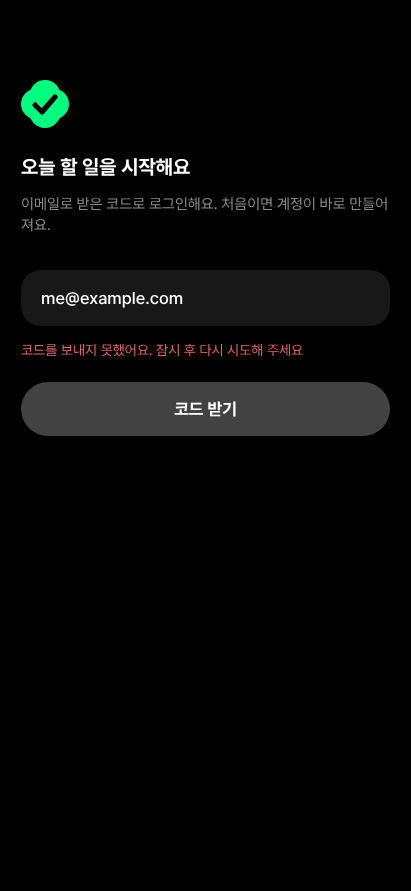
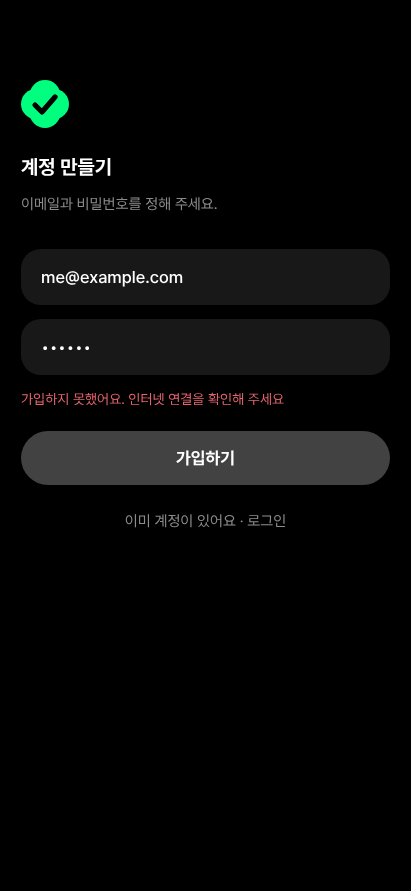
auth: switch sign-in to email + password
Supabase's built-in mailer no longer allows editing the Magic Link
template, so the email cannot carry a code without custom SMTP.

Claude-Session: https://claude.ai/code/session_01XcUwxEMgmw5eDd36iyjW7A

diff --git a/app/src/features/auth/LoginScreen.tsx b/app/src/features/auth/LoginScreen.tsx
@@ -1,21 +1,27 @@
 import { useState } from "react";
-import { KeyboardAvoidingView, Platform, TextInput, View } from "react-native";
+import { KeyboardAvoidingView, Platform, Pressable, TextInput, View } from "react-native";
 import { useSafeAreaInsets } from "react-native-safe-area-context";
 import { AppText, Button, Clover } from "../../components";
 import { supabase } from "../../lib/supabase";
 import { fontFamily, tokens, useTheme } from "../../theme";
 
-/** S01: sign in with a one-time code sent by email. No passwords to remember or leak. */
+const MIN_PASSWORD = 6; // Supabase Auth default minimum
+
+/**
+ * S01: email + password. Chosen over email codes because Supabase's built-in mailer no longer lets the
+ * template show a code without your own SMTP server (see replica/backend.md).
+ */
 export function LoginScreen() {
   const { c } = useTheme();
   const insets = useSafeAreaInsets();
+  const [mode, setMode] = useState<"signIn" | "signUp">("signIn");
   const [email, setEmail] = useState("");
-  const [code, setCode] = useState("");
-  const [step, setStep] = useState<"email" | "code">("email");
+  const [password, setPassword] = useState("");
   const [busy, setBusy] = useState(false);
   const [error, setError] = useState<string>();
+  const [info, setInfo] = useState<string>();
 
-  const field = (props: React.ComponentProps<typeof TextInput>) => (
+  const input = (props: React.ComponentProps<typeof TextInput>) => (
     <TextInput
       {...props}
       placeholderTextColor={c.textPlaceholder}
@@ -24,39 +30,56 @@ export function LoginScreen() {
     />
   );
 
-  const send = async () => {
+  const submit = async () => {
     if (!supabase) return;
-    if (!/^[^\s@]+@[^\s@]+\.[^\s@]+$/.test(email.trim())) return setError("이메일 주소를 확인해 주세요");
-    setBusy(true); setError(undefined);
-    const { error } = await supabase.auth.signInWithOtp({ email: email.trim(), options: { shouldCreateUser: true } });
+    const e = email.trim();
+    if (!/^[^\s@]+@[^\s@]+\.[^\s@]+$/.test(e)) return setError("이메일 주소를 확인해 주세요");
+    if (password.length < MIN_PASSWORD) return setError(`비밀번호는 ${MIN_PASSWORD}자 이상이어야 해요`);
+    setBusy(true); setError(undefined); setInfo(undefined);
+    if (mode === "signIn") {
+      const { error } = await supabase.auth.signInWithPassword({ email: e, password });
+      setBusy(false);
+      if (!error) return; // AuthGate takes over
+      if (/not confirmed/i.test(error.message)) return setError("가입 확인 메일의 링크를 먼저 눌러 주세요");
+      if (error.status === 429) return setError("잠시 후 다시 시도해 주세요");
+      if (error.status === 400) return setError("이메일 또는 비밀번호가 맞지 않아요");
+      return setError("로그인하지 못했어요. 인터넷 연결을 확인해 주세요");
+    }
+    const { data, error } = await supabase.auth.signUp({ email: e, password });
     setBusy(false);
-    if (error) return setError(error.status === 429 ? "잠시 후 다시 시도해 주세요" : "코드를 보내지 못했어요. 잠시 후 다시 시도해 주세요");
-    setStep("code");
-  };
-  const verify = async () => {
-    if (!supabase) return;
-    setBusy(true); setError(undefined);
-    const { error } = await supabase.auth.verifyOtp({ email: email.trim(), token: code.trim(), type: "email" });
-    setBusy(false);
-    if (error) setError("코드가 맞지 않거나 시간이 지났어요");
+    if (error) {
+      if (/already registered/i.test(error.message)) return setError("이미 가입된 이메일이에요. 로그인해 주세요");
+      if (error.status === 429) return setError("잠시 후 다시 시도해 주세요");
+      if (/password/i.test(error.message)) return setError("더 길거나 복잡한 비밀번호를 써 주세요");
+      return setError("가입하지 못했어요. 인터넷 연결을 확인해 주세요");
+    }
+    if (!data.session) {
+      // Email confirmation is on: the user clicks the link once, then signs in here.
+      setMode("signIn");
+      setInfo(`${e}로 확인 메일을 보냈어요. 메일의 링크를 누른 뒤 여기서 로그인해 주세요.`);
+    }
   };
 
+  const signUp = mode === "signUp";
   return (
     <KeyboardAvoidingView behavior={Platform.OS === "ios" ? "padding" : undefined} style={{ flex: 1, backgroundColor: c.bg }}>
       <View style={{ flex: 1, paddingTop: insets.top + 80, paddingHorizontal: tokens.layout.gutter, gap: 14 }}>
         <Clover size={48} state={{ kind: "done", color: tokens.colors.dark.accent }} />
-        <AppText variant="monthTitle" style={{ marginTop: 12 }}>오늘 할 일을 시작해요</AppText>
+        <AppText variant="monthTitle" style={{ marginTop: 12 }} accessibilityRole="header">{signUp ? "계정 만들기" : "오늘 할 일을 시작해요"}</AppText>
         <AppText variant="body" color="textMuted" style={{ marginBottom: 20 }}>
-          {step === "email" ? "이메일로 받은 코드로 로그인해요. 처음이면 계정이 바로 만들어져요." : `${email.trim()}로 보낸 코드를 입력해 주세요.`}
+          {signUp ? "이메일과 비밀번호를 정해 주세요." : "이메일과 비밀번호로 로그인해요."}
         </AppText>
-        {step === "email"
-          ? field({ value: email, onChangeText: setEmail, placeholder: "이메일", keyboardType: "email-address", autoCapitalize: "none", autoComplete: "email", accessibilityLabel: "이메일", onSubmitEditing: send })
-          : field({ value: code, onChangeText: (s) => setCode(s.replace(/\D/g, "").slice(0, 10)), placeholder: "인증 코드", keyboardType: "number-pad", autoComplete: "one-time-code", accessibilityLabel: "인증 코드", onSubmitEditing: verify })}
+        {input({ value: email, onChangeText: setEmail, placeholder: "이메일", keyboardType: "email-address", autoCapitalize: "none", autoComplete: "email", accessibilityLabel: "이메일" })}
+        {input({ value: password, onChangeText: setPassword, placeholder: signUp ? `비밀번호 (${MIN_PASSWORD}자 이상)` : "비밀번호", secureTextEntry: true,
+          autoCapitalize: "none", autoComplete: signUp ? "new-password" : "current-password", accessibilityLabel: "비밀번호", onSubmitEditing: submit })}
         {error ? <AppText variant="helper" color="danger" accessibilityLiveRegion="polite">{error}</AppText> : null}
+        {info ? <AppText variant="helper" color="textSecondary" accessibilityLiveRegion="polite">{info}</AppText> : null}
         <View style={{ marginTop: 8 }}>
-          <Button kind="sheetPrimary" label={step === "email" ? "코드 받기" : "로그인"} loading={busy} onPress={step === "email" ? send : verify} disabled={step === "code" && code.length < 6} />
+          <Button kind="sheetPrimary" label={signUp ? "가입하기" : "로그인"} loading={busy} onPress={submit} />
         </View>
-        {step === "code" ? <Button kind="plain" label="이메일 다시 입력" onPress={() => { setStep("email"); setCode(""); setError(undefined); }} /> : null}
+        <Pressable onPress={() => { setMode(signUp ? "signIn" : "signUp"); setError(undefined); setInfo(undefined); }} accessibilityRole="button" style={{ alignSelf: "center", padding: 12 }}>
+          <AppText variant="body" color="textMuted">{signUp ? "이미 계정이 있어요 · 로그인" : "처음이에요 · 계정 만들기"}</AppText>
+        </Pressable>
       </View>
     </KeyboardAvoidingView>
   );

diff --git a/replica/backend.md b/replica/backend.md
@@ -15,14 +15,13 @@ Change from `architecture.md`: the device copy is a JSON snapshot in AsyncStorag
 
 ## Setup (you do these, with your own account)
 
-1. **Create a project** at supabase.com (free plan is fine). Region: Northeast Asia (Seoul).
+1. **Create a project** at supabase.com (free plan is fine). Region: Seoul (Tokyo is fine too: sync runs in the background).
 2. **Create the tables**: Dashboard → SQL Editor → paste all of `supabase/migrations/20261103000000_init.sql` → Run.
    - Optional cleanup job: Database → Extensions → enable `pg_cron`, then run `20261103000100_purge_job.sql` the same way.
-3. **Email code sign-in**: Authentication → Sign In / Providers → Email: on.
-   Then Authentication → Emails → Templates → **Magic Link**. Make the email show the code, because the app asks for the code, not the link. Example (our own wording):
-   - Subject: `로그인 코드: {{ .Token }}`
-   - Body: `<p>앱에 아래 코드를 입력해 주세요.</p><h2>{{ .Token }}</h2><p>10분 안에 사용해 주세요. 요청한 적이 없다면 이 메일은 무시하셔도 돼요.</p>`
-   - The built-in mailer sends only a few emails per hour. That is enough for one person. For more, add your own SMTP (Resend etc.) under Authentication → Emails → SMTP.
+3. **Email + password sign-in**: Authentication → Sign In / Providers → Email: on (the default).
+   - "Confirm email" on (default): after signing up, open the confirmation email and tap the link once, then sign in in the app. The page the link opens may not load, but the email is confirmed anyway.
+   - Or turn "Confirm email" off for a personal project: you can sign in right after signing up.
+   - Why not email codes: Supabase's built-in mailer no longer allows editing the template, and the default Magic Link email has a link, not a code. Codes would need your own SMTP (Gmail app password, Resend…). Password reset by email is not built yet for the same reason.
 4. **Keys into the app**: Project Settings → API Keys. Copy the Project URL and the **publishable** key into `app/.env.local` (see `app/.env.example`). Never put the secret/service-role key in the app.
 5. **Account deletion** (optional until you need it): install the Supabase CLI, then:
    ```
@@ -35,7 +34,8 @@ Change from `architecture.md`: the device copy is a JSON snapshot in AsyncStorag
 ## Checklist
 
 Auth
-- [x] Email one-time code (no passwords). Creates the account on first sign-in
+- [x] Email + password (Supabase Auth). Sign-up, sign-in, clear error messages
+- [ ] Password reset by email (needs a deep link or your own SMTP)
 - [x] Session stored on the device and refreshed automatically. Sign out clears this device's copy
 - [ ] Google sign-in. Needs your own Google Cloud OAuth client; can be added later
 - [x] Account deletion that really deletes (Edge Function `delete-account`: files, then the auth user, rows cascade). **Not tested against a live project**
